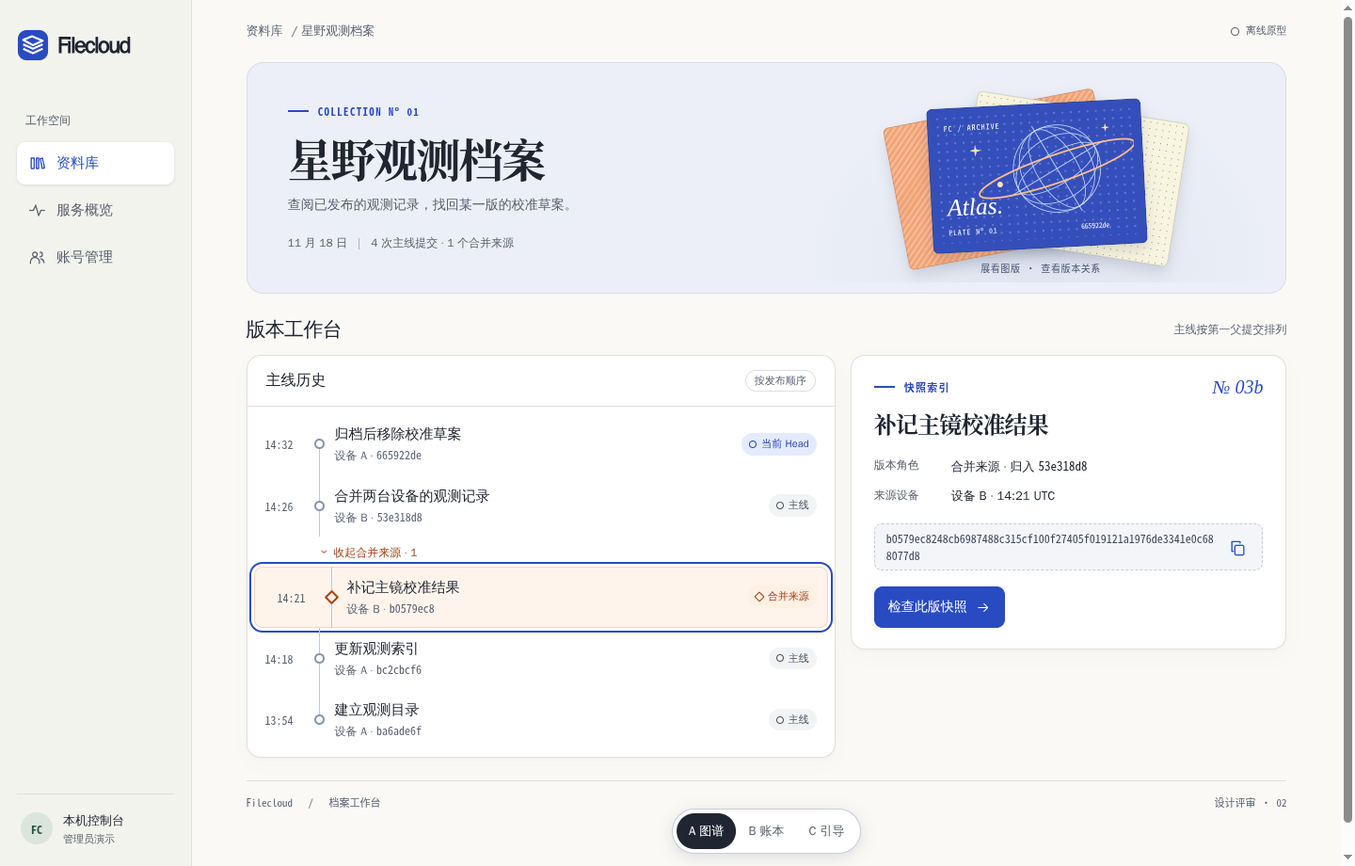
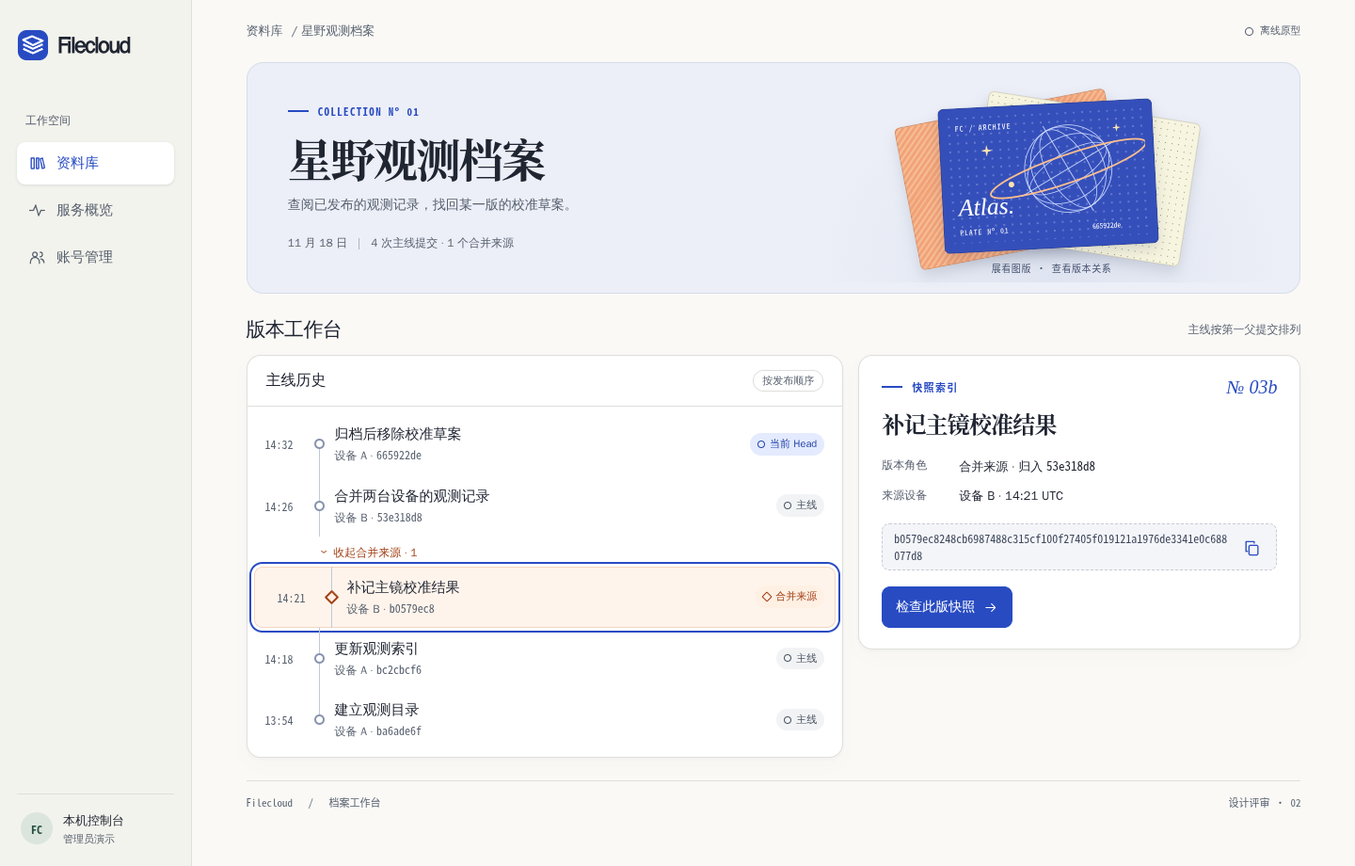
prototype: finalize the light atlas interaction (#58)

diff --git a/docs/design/web-console-prototype/index.html b/docs/design/web-console-prototype/index.html
@@ -6,21 +6,20 @@
 <title>Filecloud · 星野观测档案</title>
 <style>
 :root{color-scheme:light;--paper:#faf9f6;--white:#fff;--ink:#202532;--quiet:#58616f;--line:#dedfdc;--blue:#284bc2;--wash:#edf1ff;--orange:#a34217;--peach:#fff0e4;--green:#176446;--mint:#e8f5eb;--sans:system-ui,"Noto Sans CJK SC","Microsoft YaHei",sans-serif;--serif:"Noto Serif CJK SC","Songti SC","Source Han Serif SC",serif;--mono:ui-monospace,"SFMono-Regular",Consolas,monospace;--ease:cubic-bezier(.2,.8,.25,1);--spring:cubic-bezier(.2,.78,.32,1.12);--radius:15px;--shadow:0 2px 3px #20253206,0 7px 20px #20253205}
-*{box-sizing:border-box}html{scroll-padding:18px 0 90px}body{margin:0;background:var(--paper);color:var(--ink);font:15px/1.6 var(--sans)}button,select{color:inherit;font:inherit;cursor:pointer}button,a,select{touch-action:manipulation}button,select,.button{min-height:44px;border:1px solid #bbc1ca;background:var(--white);border-radius:9px;padding:8px 14px}button:active,.button:active{transform:translateY(1px)}:is(a,button,select):focus-visible,[tabindex="-1"]:focus-visible{outline:2px solid var(--blue);outline-offset:3px}a{color:inherit;text-decoration:none}p,h1,h2,h3,figure,dl,dd,pre{margin:0}h1,h2,h3{line-height:1.3;text-wrap:balance}h1{font:650 clamp(32px,3.3vw,51px)/1.22 var(--serif);letter-spacing:-.045em}h2{font-size:21px;letter-spacing:-.035em}p,.meta,dt,small{color:var(--quiet)}.mono,code,time,.kicker,.folio{font-family:var(--mono);font-variant-numeric:tabular-nums}code,.long,strong{overflow-wrap:anywhere}.kicker,.folio{font-size:11px;line-height:1.5;letter-spacing:.12em;font-weight:650}.kicker{color:var(--blue)}.ic{width:19px;height:19px;flex:none;vertical-align:middle;fill:none;stroke:currentColor;stroke-width:1.65;stroke-linecap:round;stroke-linejoin:round}.defs{width:0;height:0;position:absolute;overflow:hidden}.skip{position:fixed;top:-90px;left:12px;z-index:6;padding:10px 16px;background:var(--white);color:var(--blue)}.skip:focus{top:8px}
+*{box-sizing:border-box}html{scroll-padding:18px 0}body{margin:0;background:var(--paper);color:var(--ink);font:15px/1.6 var(--sans)}button,select{color:inherit;font:inherit;cursor:pointer}button,a,select{touch-action:manipulation}button,select,.button{min-height:44px;border:1px solid #bbc1ca;background:var(--white);border-radius:9px;padding:8px 14px}button:active,.button:active{transform:translateY(1px)}:is(a,button,select):focus-visible,[tabindex="-1"]:focus-visible{outline:2px solid var(--blue);outline-offset:3px}a{color:inherit;text-decoration:none}p,h1,h2,h3,figure,dl,dd,pre{margin:0}h1,h2,h3{line-height:1.3;text-wrap:balance}h1{font:650 clamp(32px,3.3vw,51px)/1.22 var(--serif);letter-spacing:-.045em}h2{font-size:21px;letter-spacing:-.035em}p,.meta,dt,small{color:var(--quiet)}.mono,code,time,.kicker,.folio{font-family:var(--mono);font-variant-numeric:tabular-nums}code,.long,strong{overflow-wrap:anywhere}.kicker,.folio{font-size:11px;line-height:1.5;letter-spacing:.12em;font-weight:650}.kicker{color:var(--blue)}.ic{width:19px;height:19px;flex:none;vertical-align:middle;fill:none;stroke:currentColor;stroke-width:1.65;stroke-linecap:round;stroke-linejoin:round}.defs{width:0;height:0;position:absolute;overflow:hidden}.skip{position:fixed;top:-90px;left:12px;z-index:6;padding:10px 16px;background:var(--white);color:var(--blue)}.skip:focus{top:8px}
 body{display:grid;grid-template-columns:204px minmax(0,1fr);min-height:100vh}.rail{position:sticky;top:0;height:100vh;display:flex;flex-direction:column;padding:29px 18px 19px;border-right:1px solid var(--line);background:#f3f3ed}.brand{display:inline-flex;align-items:center;gap:9px;font-size:24px;font-weight:750;letter-spacing:-.07em}.mark{width:34px;height:34px}.rail-label{margin:52px 9px 12px;font-size:12px;font-weight:650;color:var(--quiet)}nav{display:grid;gap:5px}nav a{display:flex;align-items:center;gap:11px;min-height:45px;padding:9px 12px;color:var(--quiet);border-radius:9px}nav a[aria-current]{background:var(--white);box-shadow:0 1px 3px #102b4520;color:var(--blue);font-weight:650}nav a:hover{color:var(--blue)}.rail-note{margin-top:auto;display:flex;align-items:center;gap:11px;border-top:1px solid var(--line);padding:15px 4px 0}.avatar{display:grid;place-items:center;flex:none;width:34px;height:34px;border-radius:50%;background:#dbe5dd;color:#275244;font:600 12px var(--mono)}.rail-note small{display:block;font-size:11px}.rail-note b{font-size:13px;font-weight:600}
-.workspace{min-width:0;width:min(1250px,100%);margin-inline:auto;padding:0 clamp(18px,4vw,64px) 90px}.crumb{min-height:66px;display:flex;align-items:center;gap:9px;font-size:13px;color:var(--quiet)}.crumb a:hover{text-decoration:underline}.crumb small{margin-left:auto;display:inline-flex;align-items:center;gap:7px;white-space:nowrap}.crumb small:before{content:'';width:7px;height:7px;border:1.5px solid var(--quiet);border-radius:50%}
+.workspace{min-width:0;width:min(1250px,100%);margin-inline:auto;padding:0 clamp(18px,4vw,64px) 28px}.crumb{min-height:66px;display:flex;align-items:center;gap:9px;font-size:13px;color:var(--quiet)}.crumb a:hover{text-decoration:underline}.crumb small{margin-left:auto;display:inline-flex;align-items:center;gap:7px;white-space:nowrap}.crumb small:before{content:'';width:7px;height:7px;border:1.5px solid var(--quiet);border-radius:50%}
 .hero{display:grid;grid-template-columns:1.12fr 1fr;align-items:center;isolation:isolate;position:relative;background:#eceff7;border:1px solid #d6dce8;border-radius:18px;overflow:hidden}.hero-copy{padding:clamp(23px,3vw,44px);z-index:1}.eyeline{display:flex;align-items:center;gap:10px}.eyeline:before{content:'';width:22px;height:2px;background:currentColor}.hero h1{margin:12px 0 10px}.hero p{font-size:14px}.hero-meta{margin-top:20px;display:flex;flex-wrap:wrap;align-items:center;gap:12px;color:var(--quiet);font-size:12px}.hero-meta i{height:12px;border-left:1px solid #adb5c4}.plate-stage{height:222px;position:relative;display:grid;place-items:center;background:radial-gradient(ellipse at 50% 90%,#c5cfe35c,transparent 67%)}.plates{border:0;padding:0;background:none;position:relative;width:228px;height:154px;isolation:isolate;--spread:0}.plates:hover,.plates:focus-visible,.plates[aria-pressed=true]{--spread:1}.plate{display:block;position:absolute;inset:0;overflow:hidden;border:1px solid #0002;border-radius:6px;box-shadow:0 7px 14px #171e3a21;transform-origin:50% 100%;transition:transform 360ms var(--spring)}.back{background:repeating-linear-gradient(135deg,#f1a277 0 3px,#f7bd96 3px 5px);transform:translateX(calc(-27px - var(--spread)*17px)) rotate(calc(-11deg - var(--spread)*6deg))}.middle{background-color:#f7f5df;background-image:radial-gradient(#89927b 1px,transparent 1px);background-size:7px 7px;transform:translateX(calc(22px + var(--spread)*17px)) rotate(calc(9deg + var(--spread)*5deg))}.front{color:#f4f5ff;background:#354fba;transform:translateY(calc(-2px - var(--spread)*5px)) rotate(-3deg);text-align:left}.front svg{width:100%;height:100%;display:block}.plate-caption{position:absolute;bottom:8px;font:10px var(--mono);letter-spacing:.06em;color:#485472}.plates:active{transform:none}
 .section-bar,.card-head,.actions,.cap,.barline{display:flex;align-items:center;gap:12px}.section-bar{margin:25px 0 12px;justify-content:space-between}.section-bar small{font-size:12px}.pair{display:grid;grid-template-columns:minmax(0,1.35fr) minmax(262px,1fr);align-items:start;gap:16px}.panel{min-width:0;background:var(--white);border:1px solid var(--line);border-radius:var(--radius);box-shadow:var(--shadow)}.pad,.heading{padding:clamp(18px,2.2vw,30px)}.card-head{justify-content:space-between;padding:15px 20px;border-bottom:1px solid var(--line)}.card-head h2,.card-head h3{font-size:16px}.count,.tag{display:inline-flex;align-items:center;gap:5px;font-size:11px;font-weight:630;border-radius:20px;white-space:nowrap}.count{color:var(--quiet);border:1px solid var(--line);padding:2px 9px}.tag{color:#485261;background:#f2f3f5;padding:3px 8px}.tag.head{color:#2545a8;background:#e4ebff}.tag.source{color:var(--orange);background:var(--peach)}.tag:before{content:'';width:6px;height:6px;border:1.5px solid currentColor;border-radius:50%}.tag.source:before{border-radius:1px;transform:rotate(45deg)}
 .versions{padding:7px}.revision{width:100%;display:grid;grid-template-columns:42px 14px minmax(0,1fr) auto;align-items:center;gap:9px;position:relative;text-align:left;border:1px solid transparent;background:transparent;padding:9px 11px;min-height:56px;border-radius:9px}.revision time{font-size:12px;color:var(--quiet)}.revision .node{position:relative;align-self:stretch;display:grid;place-items:center}.node:before{content:'';position:absolute;inset:-10px auto;width:1px;background:#c1c8db}.revision:first-child .node:before{top:50%}.revision:last-child .node:before{bottom:50%}.node:after{content:'';position:relative;width:7px;height:7px;border-radius:50%;background:white;border:2px solid #8994ae}.revision[aria-pressed=true]{background:var(--wash);border-color:#c9d5ff}.revision[aria-pressed=true] .node:after{border-color:var(--blue);background:var(--blue)}.revision:hover:not([aria-pressed=true]),.jump:hover{background:#f7f8fb}.revision b{font-size:15px;font-weight:620}.meta{display:block;font-size:12px}.revision.src{padding-left:24px;animation:unfold 220ms var(--ease)}.src .node:after,.src[aria-pressed=true] .node:after{border-color:var(--orange);background:var(--peach);border-radius:1px;transform:rotate(45deg)}.revision.src[aria-pressed=true]{background:#fff4eb;border-color:#f2d6c1}.disclose{border:0;background:transparent;color:var(--orange);min-height:32px;font-size:12px;margin-left:65px;padding:4px 8px}.disclose:before{content:'›';display:inline-block;margin-right:7px;font-size:15px;transition:transform 180ms var(--ease)}.disclose[aria-expanded=true]:before{transform:rotate(90deg)}
 .inspector{position:relative;overflow:hidden;padding:22px 24px}.cap{justify-content:space-between}.inspector h2{margin:10px 0 4px;font:650 24px/1.38 var(--serif)}.stamp{color:var(--blue);font:italic 20px Georgia,serif}.fields{margin:14px 0}.fields>div{display:grid;grid-template-columns:72px minmax(0,1fr);gap:10px;padding:5px 0;font-size:13px}.fields dt{font-size:12px}.id-slip{display:flex;align-items:center;gap:6px;justify-content:space-between;background:#f4f5f8;border:1px dashed #c7cbd5;border-radius:8px;padding:6px 8px 6px 12px}.id-slip code{color:#3c475c;min-width:0;font-size:12px;line-height:1.5}.copy-icon{flex:none;padding:5px;border:0;background:transparent;color:var(--blue);min-width:36px;min-height:36px}.actions{flex-wrap:wrap;margin-top:17px}.button{display:inline-flex;align-items:center;justify-content:center;gap:9px;font-weight:620;font-size:14px}.button .ic{width:16px}.primary{background:var(--blue);border-color:var(--blue);color:white}.primary:hover{background:#1d3895}.button[data-copied],.copy-icon[data-copied]{background:var(--mint);border-color:#a0c9b0;color:var(--green)}[data-copied] .ic{animation:check-in 200ms var(--spring)}
-.heading{border-top:2px solid var(--ink);padding-inline:0}.heading h1{margin:8px 0}.heading p{max-width:66ch}.jump{display:flex;align-items:center;gap:16px;padding:17px 21px;border-bottom:1px solid var(--line)}.jump:first-child{border-radius:var(--radius) var(--radius) 0 0}.jump:last-child{border-bottom:0;border-radius:0 0 var(--radius) var(--radius)}.jump strong,.jump small{display:block}.jump small{font-size:12px}.jump>.ic:last-child{margin-left:auto;color:var(--blue)}.tile,.symbol{display:inline-grid;place-items:center;flex:none;width:38px;height:38px;border-radius:11px;color:var(--blue);background:var(--wash)}.symbol{width:50px;height:50px;margin-bottom:14px}.pad h2{margin:6px 0}.note{margin:14px 0;color:var(--quiet);font-size:13px}.grid2{display:grid;grid-template-columns:1fr 1fr;gap:14px}.probe{border-top:3px solid #96bcad}.probe.warn{border-color:#d28758}.probe.unknown{border-color:#9da6b2}.probe .big{font:620 30px var(--serif);margin-top:8px}.probe .kicker{color:var(--quiet)}.status{background:var(--mint);color:var(--green);border-radius:9px;padding:12px 16px;margin:14px 0}.status.warn{background:var(--peach);color:var(--orange)}.status.unknown{background:#edf0f3;color:#485261}.toolbar{display:flex;align-items:center;justify-content:space-between;flex-wrap:wrap;gap:10px;margin:12px 0}.toolbar .disclose{margin-left:0}.choice{display:grid;gap:8px;margin:13px 0 20px}.choice select{min-width:0;width:100%}.ledger{width:100%;border-collapse:collapse;text-align:left;font-size:14px}.ledger th,.ledger td{padding:7px 12px;border-bottom:1px solid var(--line)}.ledger th{color:var(--quiet);font-size:12px}.ledger td>button{background:none;text-align:left;border:0;padding:6px}.ledger .chosen{background:var(--wash)}.steps{padding:0;list-style:none;counter-reset:step;display:grid;gap:12px}.steps li{position:relative;padding-left:36px;color:var(--quiet);counter-increment:step}.steps li:before{content:counter(step,decimal-leading-zero);position:absolute;left:0;top:2px;font:600 12px var(--mono);color:var(--blue)}.cmd{white-space:pre-wrap;overflow-wrap:anywhere;font:13px/1.65 var(--mono);padding:15px;background:var(--wash);border-radius:9px;color:#21377c}.rule-note{background:#f4f1e9}.spaced{margin-top:16px}.review-dock{position:fixed;z-index:2;bottom:max(13px,env(safe-area-inset-bottom));left:calc(50% + 102px);transform:translateX(-50%);background:#fff;border:1px solid #c6cbd5;border-radius:30px;box-shadow:0 4px 16px #202c4521;padding:4px;display:grid;grid-template-columns:repeat(3,1fr);isolation:isolate}.review-dock[hidden]{display:none}.review-dock:before{content:'';position:absolute;z-index:-1;top:4px;bottom:4px;left:4px;width:calc((100% - 8px)/3);border-radius:22px;background:var(--ink);transform:translateX(calc(var(--idx,0)*100%));transition:transform 230ms var(--spring)}.review-dock button{background:none;border:0;font-size:13px;min-height:38px;border-radius:22px;padding:5px 13px;color:var(--quiet);white-space:nowrap}.review-dock button[aria-pressed=true]{color:#fff}.foot{display:flex;justify-content:space-between;gap:8px;flex-wrap:wrap;padding-top:14px;margin-top:24px;border-top:1px solid var(--line);font:11px var(--mono);color:var(--quiet)}.toast{position:fixed;right:16px;bottom:66px;padding:8px 13px;border-radius:7px;background:var(--ink);color:white;z-index:3;font-size:13px}.toast:empty{display:none}dialog{width:420px;max-width:calc(100% - 28px);border:1px solid var(--line);border-radius:18px;padding:26px;color:var(--ink);box-shadow:0 15px 80px #161d4133}dialog[open]{animation:unfold 180ms var(--ease)}dialog::backdrop{background:#1e28364f}dialog h2{margin:12px 0}.warn-tile{color:var(--orange);background:var(--peach)}.dangerbtn{background:#943e1d;border-color:#943e1d;color:white}.sr{position:absolute;width:1px;height:1px;overflow:hidden;clip-path:inset(50%)}
+.heading{border-top:2px solid var(--ink);padding-inline:0}.heading h1{margin:8px 0}.heading p{max-width:66ch}.jump{display:flex;align-items:center;gap:16px;padding:17px 21px;border-bottom:1px solid var(--line)}.jump:first-child{border-radius:var(--radius) var(--radius) 0 0}.jump:last-child{border-bottom:0;border-radius:0 0 var(--radius) var(--radius)}.jump strong,.jump small{display:block}.jump small{font-size:12px}.jump>.ic:last-child{margin-left:auto;color:var(--blue)}.tile,.symbol{display:inline-grid;place-items:center;flex:none;width:38px;height:38px;border-radius:11px;color:var(--blue);background:var(--wash)}.symbol{width:50px;height:50px;margin-bottom:14px}.pad h2{margin:6px 0}.note{margin:14px 0;color:var(--quiet);font-size:13px}.grid2{display:grid;grid-template-columns:1fr 1fr;gap:14px}.probe{border-top:3px solid #96bcad}.probe.warn{border-color:#d28758}.probe.unknown{border-color:#9da6b2}.probe .big{font:620 30px var(--serif);margin-top:8px}.probe .kicker{color:var(--quiet)}.status{background:var(--mint);color:var(--green);border-radius:9px;padding:12px 16px;margin:14px 0}.status.warn{background:var(--peach);color:var(--orange)}.status.unknown{background:#edf0f3;color:#485261}.toolbar{display:flex;align-items:center;justify-content:space-between;flex-wrap:wrap;gap:10px;margin:12px 0}.steps{padding:0;list-style:none;counter-reset:step;display:grid;gap:12px}.steps li{position:relative;padding-left:36px;color:var(--quiet);counter-increment:step}.steps li:before{content:counter(step,decimal-leading-zero);position:absolute;left:0;top:2px;font:600 12px var(--mono);color:var(--blue)}.cmd{white-space:pre-wrap;overflow-wrap:anywhere;font:13px/1.65 var(--mono);padding:15px;background:var(--wash);border-radius:9px;color:#21377c}.rule-note{background:#f4f1e9}.spaced{margin-top:16px}.foot{display:flex;justify-content:space-between;gap:8px;flex-wrap:wrap;padding-top:14px;margin-top:24px;border-top:1px solid var(--line);font:11px var(--mono);color:var(--quiet)}.toast{position:fixed;right:16px;bottom:66px;padding:8px 13px;border-radius:7px;background:var(--ink);color:white;z-index:3;font-size:13px}.toast:empty{display:none}dialog{width:420px;max-width:calc(100% - 28px);border:1px solid var(--line);border-radius:18px;padding:26px;color:var(--ink);box-shadow:0 15px 80px #161d4133}dialog[open]{animation:unfold 180ms var(--ease)}dialog::backdrop{background:#1e28364f}dialog h2{margin:12px 0}.warn-tile{color:var(--orange);background:var(--peach)}.dangerbtn{background:#943e1d;border-color:#943e1d;color:white}.sr{position:absolute;width:1px;height:1px;overflow:hidden;clip-path:inset(50%)}
 .map-face{position:absolute;inset:0;background:#f9f7ec;opacity:0;transition:opacity 190ms var(--ease)}.plates[aria-pressed=true] .map-face{opacity:1}.plates[aria-pressed=true] .front{transform:translateY(-4px) rotate(0)}
 @keyframes unfold{from{opacity:.25;transform:translateY(-4px)}to{opacity:1;transform:none}}@keyframes check-in{from{opacity:0;transform:scale(.7)}to{opacity:1;transform:none}}
-@media(max-width:1060px){body{grid-template-columns:165px minmax(0,1fr)}.rail{padding-inline:12px}.workspace{padding-inline:24px}.review-dock{left:calc(50% + 82.5px)}.pair{grid-template-columns:minmax(0,1.2fr) minmax(240px,1fr)}.plate-stage{transform:scale(.87)}.revision{gap:5px;padding-inline:7px}.revision b{font-size:14px}}
-@media(max-width:820px){body{display:block}.rail{position:static;height:auto;display:flex;flex-direction:row;align-items:center;justify-content:space-between;gap:12px;border:0;border-bottom:1px solid var(--line);padding:10px 20px}.rail-label,.rail-note{display:none}nav{display:flex;gap:3px}nav a{min-height:44px;padding:7px 10px;font-size:13px}.review-dock{left:50%}.workspace{padding-inline:20px}.plate-stage{height:198px}.crumb{min-height:52px}}
-@media(max-width:650px){.workspace{padding-inline:14px}.rail{flex-wrap:wrap;padding:10px 14px 4px}.brand{font-size:22px}.mark{width:28px;height:28px}nav{width:100%;justify-content:space-between}nav a{gap:5px}.crumb{font-size:12px;gap:5px}.crumb small{font-size:10px}.hero{grid-template-columns:1fr}.hero-copy{padding:20px 20px 0}.hero p{font-size:13px}.hero-meta{margin-top:10px}.plate-stage{height:147px;transform:none}.plates{width:163px;height:107px}.plate-caption{bottom:4px;font-size:9px}.pair{grid-template-columns:1fr}.section-bar{margin-top:18px}.section-bar h2{font-size:19px}.section-bar small{font-size:11px}.revision{grid-template-columns:36px 12px minmax(0,1fr) auto;gap:5px}.revision.src{padding-left:12px}.revision .meta{font-size:11px}.inspector{padding:18px}.card-head{padding:13px 15px}.disclose,.copy-icon,.review-dock button{min-height:44px}.disclose{margin-left:47px}.grid2{gap:8px}.pad{padding:16px}.probe .big{font-size:24px}.heading{padding:17px 0}.ledger td,.ledger th{padding:5px}.ledger th:nth-child(2),.ledger td:nth-child(2){display:none}.jump{padding:14px 12px;gap:9px}.toast{max-width:90vw}.hero .kicker{font-size:10px}.steps li{padding-left:29px}}
+@media(max-width:1060px){body{grid-template-columns:165px minmax(0,1fr)}.rail{padding-inline:12px}.workspace{padding-inline:24px}.pair{grid-template-columns:minmax(0,1.2fr) minmax(240px,1fr)}.plate-stage{transform:scale(.87)}.revision{gap:5px;padding-inline:7px}.revision b{font-size:14px}}
+@media(max-width:820px){body{display:block}.rail{position:static;height:auto;display:flex;flex-direction:row;align-items:center;justify-content:space-between;gap:12px;border:0;border-bottom:1px solid var(--line);padding:10px 20px}.rail-label,.rail-note{display:none}nav{display:flex;gap:3px}nav a{min-height:44px;padding:7px 10px;font-size:13px}.workspace{padding-inline:20px}.plate-stage{height:198px}.crumb{min-height:52px}}
+@media(max-width:650px){.workspace{padding-inline:14px}.rail{flex-wrap:wrap;padding:10px 14px 4px}.brand{font-size:22px}.mark{width:28px;height:28px}nav{width:100%;justify-content:space-between}nav a{gap:5px}.crumb{font-size:12px;gap:5px}.crumb small{font-size:10px}.hero{grid-template-columns:1fr}.hero-copy{padding:20px 20px 0}.hero p{font-size:13px}.hero-meta{margin-top:10px}.plate-stage{height:147px;transform:none}.plates{width:163px;height:107px}.plate-caption{bottom:4px;font-size:9px}.pair{grid-template-columns:1fr}.section-bar{margin-top:18px}.section-bar h2{font-size:19px}.section-bar small{font-size:11px}.revision{grid-template-columns:36px 12px minmax(0,1fr) auto;gap:5px}.revision.src{padding-left:12px}.revision .meta{font-size:11px}.inspector{padding:18px}.card-head{padding:13px 15px}.disclose,.copy-icon{min-height:44px}.disclose{margin-left:47px}.grid2{gap:8px}.pad{padding:16px}.probe .big{font-size:24px}.heading{padding:17px 0}.jump{padding:14px 12px;gap:9px}.toast{max-width:90vw}.hero .kicker{font-size:10px}.steps li{padding-left:29px}}
 .skip:not(:focus){clip-path:inset(50%);pointer-events:none}
-@media(max-width:650px){.section-bar{display:grid;grid-template-columns:1fr auto;gap:9px}.review-dock{position:relative;grid-column:1/-1;justify-self:start;bottom:auto;left:auto;transform:none;box-shadow:none}.workspace{padding-bottom:28px}}
 @media(max-width:390px){nav a{white-space:nowrap;padding-inline:7px}nav .ic{display:none}.hero-meta{gap:7px;font-size:11px}.section-bar small{letter-spacing:-.02em}}
 @media(prefers-reduced-motion:reduce){*,*::before,*::after{animation:none!important;transition:none!important;scroll-behavior:auto!important}}
 </style></head>
@@ -31,7 +30,6 @@ body{display:grid;grid-template-columns:204px minmax(0,1fr);min-height:100vh}.ra
 <a class="skip" href="#content" id="skip">跳到主要内容</a>
 <aside class="rail"><a class="brand" href="#libraries" aria-label="Filecloud 资料库"><svg class="mark" viewBox="0 0 36 36" aria-hidden="true"><rect x="1" y="1" width="34" height="34" rx="10" fill="#284bc2"/><g fill="none" stroke="#fff" stroke-width="2.3" stroke-linejoin="round"><path d="m7 12 10-4 12 5-11 5zM7 17l11 5 11-5M7 22l11 5 11-5"/></g></svg>Filecloud</a><div class="rail-label">工作空间</div><nav aria-label="主导航"></nav><div class="rail-note"><span class="avatar">FC</span><span><b>本机控制台</b><small>管理员演示</small></span></div></aside>
 <main class="workspace" id="content" tabindex="-1"></main>
-<div class="review-dock" id="switch" role="group" aria-label="评审：历史页版式" hidden><button data-layout="A" aria-label="版式 A 图谱">A 图谱</button><button data-layout="B" aria-label="版式 B 账本">B 账本</button><button data-layout="C" aria-label="版式 C 引导">C 引导</button></div>
 <div class="toast" id="toast" role="status"></div>
 <dialog aria-labelledby="dialogTitle" aria-describedby="impact"><span class="tile warn-tile"><svg class="ic" aria-hidden="true"><use href="#key"/></svg></span><h2 id="dialogTitle">重置观测员 02 的密码？</h2><p id="impact">目标账号 <code>observer-02</code> 在所有设备上的 Web 和 CLI 会话都会失效，需要重新登录。</p><p class="note">这是模拟操作，不会修改账号。</p><div class="actions"><button id="cancel" autofocus>取消</button><button id="confirm" class="dangerbtn">确认模拟重置</button></div></dialog>
 <script>
@@ -41,13 +39,11 @@ const commits={
[3 lines of base64/hex data omitted]
-const mainline=['head','merge','remote','initial'], layouts=['A','B','C'];
+const mainline=['head','merge','remote','initial'];
 const folder='观测报告',fileName='冬季巡天联合观测项目第二轮复核记录与主镜偏差校准草案.md',path=folder+'/'+fileName;
[1 lines of base64/hex data omitted]
 const $=s=>document.querySelector(s), icon=id=>`<svg class="ic" aria-hidden="true"><use href="#${id}"/></svg>`, hasDraft=k=>k==='source'||k==='merge';
-let layout=new URL(location.href).searchParams.get('variant');if(!layouts.includes(layout))layout='A';
 let selected='head',expanded=false,fan=false,health='ready',resetDone=false,noticeTimer;
-const layoutDock=$('#switch');
 $('nav').innerHTML=[['libraries','library','资料库'],['overview','pulse','服务概览'],['accounts','users','账号管理']].map(([p,i,t])=>`<a href="#${p}">${icon(i)}${t}</a>`).join('');
 function crumb(label,up='资料库',to='libraries'){return `<div class="crumb"><a href="#${to}">${up}</a> / ${label}<small>离线原型</small></div>`}
 function heading(k,title,text){return `<header class="heading"><div class="kicker eyeline">${k}</div><h1 tabindex="-1">${title}</h1><p>${text}</p></header>`}
@@ -62,11 +58,7 @@ function disclosure(){return `<button class="disclose" data-expand aria-expanded
 function rows(){return expanded?['head','merge','source','remote','initial']:mainline}
 function historyList(){return `<section class="panel"><div class="card-head"><h3>主线历史</h3><span class="count">按发布顺序</span></div><div class="versions">${rows().map(k=>{const [id,title,t,device]=commits[k];return `<button class="revision ${k==='source'?'src':''}" data-choose="${k}" aria-pressed="${selected===k}"><time>${t}</time><i class="node" aria-hidden="true"></i><span><b>${title}</b><small class="meta">${device} · <code>${id.slice(0,8)}</code></small></span>${tag(k)}</button>${k==='merge'?disclosure():''}`}).join('')}</div></section>`}
 function inspector(k){const [id,title,t,device,role]=commits[k];return `<article class="panel inspector" id="inspect"><div class="cap"><span class="kicker eyeline">快照索引</span><span class="stamp" aria-hidden="true">№ ${k==='source'?'03b':String(4-mainline.indexOf(k)).padStart(2,'0')}</span></div><h2 tabindex="-1">${title}</h2><dl class="fields"><div><dt>版本角色</dt><dd>${role}${k==='source'?' · 归入 <code>53e318d8</code>':''}</dd></div><div><dt>来源设备</dt><dd>${device} · ${t} UTC</dd></div></dl><div class="id-slip"><code>${id}</code><button class="copy-icon" data-copy="commit" aria-label="复制完整提交 ID" title="复制完整提交 ID">${icon('copy')}</button></div><div class="actions">${link('tree/'+k,'检查此版快照',true)}</div></article>`}
-function historyView(){let view;
- if(layout==='A')view=`<div class="pair">${historyList()}${inspector(selected)}</div>`;
- if(layout==='B')view=`<section class="panel pad"><div class="toolbar"><h3>提交账本</h3>${disclosure()}</div><table class="ledger"><thead><tr><th>版本</th><th>设备</th><th>角色</th></tr></thead><tbody>${rows().map(k=>`<tr class="${selected===k?'chosen':''}"><td><button data-choose="${k}" aria-pressed="${selected===k}">${commits[k][1]}<span class="meta mono">${commits[k][0].slice(0,8)}</span></button></td><td>${commits[k][3]}</td><td>${tag(k)}</td></tr>${selected===k?`<tr><td colspan="3">${inspector(k)}</td></tr>`:''}`).join('')}</tbody></table></section>`;
- if(layout==='C')view=`<section class="panel pad"><div class="kicker">01 / 选择来源</div><label class="choice">要查阅哪个已发布版本？<select id="pick">${Object.entries(commits).map(([k,c])=>`<option value="${k}" ${k===selected?'selected':''}>${c[4]} · ${c[1]}</option>`).join('')}</select></label><div class="kicker">02 / 核对快照</div>${inspector(selected)}</section>`;
- return hero()+`<div class="section-bar"><h2>版本工作台</h2><small>主线按第一父提交排列</small></div>`+view}
+function historyView(){return hero()+`<div class="section-bar"><h2>版本工作台</h2><small>主线按第一父提交排列</small></div><div class="pair">${historyList()}${inspector(selected)}</div>`}
 function libraries(){return crumb('资料库索引','工作区','overview')+heading('COLLECTIONS','我的资料库','从自己的资料库进入版本历史。')+`<section class="panel"><div class="card-head"><h3>馆藏目录</h3><span class="count">2 个资料库</span></div>${jump('history','星野观测档案','4 次主线提交 · Head 665922de')}${jump('empty','下一季观测','空资料库 · 等待首次发布')}</section>`}
 function empty(){return crumb('下一季观测')+heading('COLLECTION Nº 02','下一季观测','资料库已创建，尚无已发布版本。')+`<section class="panel pad"><span class="symbol">${icon('folder')}</span><h2>从第一台设备开始</h2><p>在设备上用 CLI 绑定工作目录。导入已有文件时，显式选择首次导入。第一次发布后，这里就会出现版本历史。</p><div class="actions">${link('libraries','返回资料库')}</div></section>`}
 function snapshot(page,k){const c=commits[k],base=crumb('快照 '+c[0].slice(0,8),'版本历史','history');
@@ -81,20 +73,17 @@ function accounts(){return crumb('账号管理','管理员','overview')+heading(
 function render(focus=false){const [route,arg]=location.hash.slice(1).split('/');let page=route||'history',html;
  switch(page){case 'history':html=historyView();break;case 'overview':html=overview();break;case 'accounts':html=accounts();break;case 'empty':html=empty();break;case 'tree':case 'folder':case 'file':case 'handoff':selected=Object.hasOwn(commits,arg)?arg:'head';if(selected==='source')expanded=true;if(['file','handoff'].includes(page)&&!hasDraft(selected))page='folder';html=snapshot(page,selected);break;default:html=libraries()}
  const section=['overview','accounts'].includes(page)?page:'libraries';document.querySelectorAll('nav a').forEach(a=>{if(a.hash==='#'+section)a.setAttribute('aria-current','page');else a.removeAttribute('aria-current')});
- $('#content').innerHTML=html+'<footer class="foot"><span>Filecloud &nbsp; / &nbsp; 档案工作台</span><span>设计评审 · 02</span></footer>';if(page==='history')$('.section-bar').append(layoutDock);else document.body.append(layoutDock);layoutDock.hidden=page!=='history';layoutDock.style.setProperty('--idx',layouts.indexOf(layout));document.querySelectorAll('[data-layout]').forEach(b=>b.setAttribute('aria-pressed',String(b.dataset.layout===layout)));document.title=$('h1').textContent+' · Filecloud';if(focus){$('#toast').textContent='';window.scrollTo(0,0);$('h1').focus({preventScroll:true})}}
-function switchLayout(next){layout=next;const url=new URL(location.href);url.searchParams.set('variant',layout);history.replaceState(null,'',url);render();$(`[data-layout="${layout}"]`).focus({preventScroll:true})}
+ $('#content').innerHTML=html+'<footer class="foot"><span>Filecloud &nbsp; / &nbsp; 档案工作台</span><span>设计评审 · 02</span></footer>';document.title=$('h1').textContent+' · Filecloud';if(focus){$('#toast').textContent='';window.scrollTo(0,0);$('h1').focus({preventScroll:true})}}
 function notify(text){$('#toast').textContent=text;clearTimeout(noticeTimer);noticeTimer=setTimeout(()=>$('#toast').textContent='',2200)}
 async function copy(button){const command=button.dataset.copy==='command',node=command?$('#command'):button.previousElementSibling;
  try{await navigator.clipboard.writeText(node.textContent)}catch{const range=document.createRange();range.selectNodeContents(node);const selection=window.getSelection();selection.removeAllRanges();selection.addRange(range);notify('文字已选中，请手动复制');return}
  if(button.hasAttribute('data-copied'))return;const html=button.innerHTML;button.setAttribute('data-copied','');button.innerHTML=icon('check')+(command?'已复制':'<span class="sr">已复制</span>');notify(command?'已复制预览命令':'已复制完整提交 ID');setTimeout(()=>{button.removeAttribute('data-copied');button.innerHTML=html},1800)}
 document.addEventListener('click',e=>{const b=e.target.closest('button');if(!b)return;
- if(b.dataset.layout)switchLayout(b.dataset.layout);
- else if(b.dataset.choose){selected=b.dataset.choose;render();if(matchMedia('(max-width:650px)').matches)$('#inspect h2').focus();else $(`[data-choose="${selected}"]`).focus()}
+ if(b.dataset.choose){selected=b.dataset.choose;render();if(matchMedia('(max-width:650px)').matches)$('#inspect h2').focus();else $(`[data-choose="${selected}"]`).focus()}
  else if(b.hasAttribute('data-expand')){expanded=!expanded;if(!expanded&&selected==='source')selected='merge';render();$('[data-expand]').focus()}
  else if(b.dataset.copy)copy(b);
  else if(b.id==='plates'){fan=!fan;b.setAttribute('aria-pressed',String(fan));$('.plate-caption').textContent=plateCaption()}
  else if(b.id==='prepare')$('dialog').showModal();else if(b.id==='cancel')$('dialog').close();else if(b.id==='confirm'){$('dialog').close();resetDone=true;render();$('#result').focus()}});
-document.addEventListener('change',e=>{if(e.target.id==='health'){health=e.target.value;render();$('#health').focus()}else if(e.target.id==='pick'){selected=e.target.value;expanded=selected==='source';render();$('#pick').focus()}});
-$('#switch').addEventListener('keydown',e=>{if(['ArrowLeft','ArrowRight'].includes(e.key)){e.preventDefault();switchLayout(layouts[(layouts.indexOf(layout)+(e.key==='ArrowRight'?1:2))%3])}});
+document.addEventListener('change',e=>{if(e.target.id==='health'){health=e.target.value;render();$('#health').focus()}});
 $('#skip').onclick=e=>{e.preventDefault();$('#content').focus()};window.addEventListener('hashchange',()=>render(true));render();
 </script></body></html>

diff --git a/docs/design/web-console-prototype/README.md b/docs/design/web-console-prototype/README.md
@@ -1,17 +1,16 @@
-# 星野观测档案 · 亮色原型 02
+# 星野观测档案 · 亮色 A「图谱」定稿
 
-打开同目录的 **[index.html](index.html)** 即可体验；在 GitHub 上请点 **Download raw file**，下载后双击。不需要启动服务、联网或输入密码。所有提交、账号和操作都是示例。本轮只重做 [#58](https://github.com/finalmaybe/filecloud/issues/58) 的交互与视觉，未接入服务端。
+打开同目录的 **[index.html](index.html)** 即可体验；在 GitHub 上请点 **Download raw file**，下载后双击。不需要启动服务、联网或输入密码。所有提交、账号和操作都是示例。[#58](https://github.com/finalmaybe/filecloud/issues/58) 已选定 A「图谱」为后续实现基线；此文件仍是离线原型。
 
 ![亮色历史页：左侧主线与橙色合并来源，右侧快照索引](screens/desktop-history.webp)
 
-## 先试这三个组件
+## 图谱中的交互
 
 参考来源：[DesignBookmark · Motion](https://designbookmark.com/motion)。下面列的是该页面的组件名，原型用本地 CSS、SVG 和浏览器原生按钮重新实现，不加载站外脚本、图片或字体。
 
 | 参考组件 | 在哪儿试 | 交互与用途 |
 |---|---|---|
 | **Fan cards** | 点击页首蓝色星图，或聚焦后按 Enter | 叠放的图版展开，从封面切到提交关系图：实线圆点是四次主线发布，虚线菱形是 14:21 的来源，在 14:26 合入。再点一次收回。[展开截图](screens/desktop-map.webp) |
-| **Tab pill** | 切换「A 图谱 / B 账本 / C 引导」 | 选中底板滑到对应标签，三种版式共用当前所选提交。桌面开关浮在底部，窄屏放在工作台标题下，不遮挡命令。焦点位于开关内时支持左右键。 |
 | **Copy button** | 点击完整提交 ID 旁的复制图标，或恢复页的「复制预览命令」 | 剪贴板写入成功后，原按钮就地变成勾号，并播报结果；浏览器不允许访问剪贴板时选中文字，提示手动复制。 |
 
 ## 两分钟走查
@@ -23,18 +22,14 @@
 
 ## 版式与视觉约定
 
-| 版式 | 适合什么任务 |
-|---|---|
-| **A · 图谱（推荐）** | 来回对比相邻版本。选择在左，详情在右，合并来源收在所属提交下。手机先选版本，再聚焦下方的快照标题。 |
-| B · 账本 | 按列扫描设备和版本角色，详情在选中行下方展开。 |
-| C · 引导 | 偶尔做恢复：第一步选版本，第二步核对快照。 |
+历史页只使用 **A · 图谱**。桌面左侧选择主线提交或其合并来源，右侧固定位置显示对应快照详情，方便对比相邻版本。窄屏按「历史列表 → 快照详情」排列，选中版本后焦点移到下方详情标题。
 
 - **纸与墨**：纸白画布 `#FAF9F6`、正文 `#202532`、群青主操作 `#284BC2`、橙墨合并来源 `#A34217`。中文标题用本机衬线字，正文用无衬线，哈希和时间用等宽字体。正文/画布 14.54:1，白色主按钮文字/群青 7.30:1，橙墨文字/浅杏底 5.62:1。
-- **节奏与反馈**：历史行至少 56 px，面板间隔 16 px，键盘焦点环 2 px。图版展开 360 ms、选中底板移动 230 ms、复制勾号出现 200 ms。系统要求减少动画时直接显示最终状态。危险操作仍用有文字说明的确认框，无需长按、滑动或计时。
+- **节奏与反馈**：历史行至少 56 px，面板间隔 16 px，键盘焦点环 2 px。图版展开 360 ms、复制勾号出现 200 ms。系统要求减少动画时直接显示最终状态。危险操作仍用有文字说明的确认框，无需长按、滑动或计时。
 
 ## 浏览器走查记录
 
-桌面 **1440×920** 与窄屏 **320×740** 均用 Chromium 直接打开本地 HTML：走通上述两条任务，检查 A/B/C 切换和刷新、图版展开、复制反馈、空库、存储异常与断连、长路径、弹窗取消/确认与焦点返回。关键页面无整页横向溢出或脚本错误；减少动画模式下图版过渡为 `0s`。
+桌面 **1440×920** 与窄屏 **320×740** 均用 Chromium 直接打开本地 HTML：走通上述两条任务，检查旧版式链接与刷新均显示图谱、图版展开、复制反馈、空库、存储异常与断连、长路径、弹窗取消/确认与焦点返回。关键页面无整页横向溢出或脚本错误；减少动画模式下图版过渡为 `0s`。
 
 | 场景 | 实测截图 |
 |---|---|
@@ -43,4 +38,4 @@
 | 空库与异常 | [空库](screens/desktop-empty.webp) · [存储未就绪](screens/desktop-unready.webp) · [连接中断](screens/desktop-offline.webp) |
 | 账号重置确认 | [桌面](screens/desktop-reset.webp) · [窄屏](screens/mobile-reset.webp) |
 
-当前评审的是亮色方向和上述交互；生产界面仍等待维护者确认。旧版保存在评审分支的提交 `3df9721` 中。
+评审留档：[三方案对比稿](https://github.com/finalmaybe/filecloud/tree/08e2fa7/docs/design/web-console-prototype)；该版本仅供回溯。

diff --git a/docs/design/web-console.md b/docs/design/web-console.md
@@ -46,4 +46,4 @@ Web 与 `/v1` 不互相代收凭据：Web 不用客户端 Bearer 授予管理权
 
 ## 交付门禁
 
-阶段 1 的原型是离线示例，不能作为权限或协议回归的证据。维护者确认原型后才开始 `/web/` 实现；正式验证包括 WCAG 2.2 AA、窄屏与键盘、固定样本性能、真实 CLI↔Web 闭环，以及[发布门禁](../distribution.md)。所有后续任务和依赖见 [#56](https://github.com/finalmaybe/filecloud/issues/56)。
+维护者已在 [#58](https://github.com/finalmaybe/filecloud/issues/58) 选定亮色 A「图谱」：桌面左侧选主线提交或合并来源，右侧查看快照详情；窄屏选中后聚焦列表下方的详情。生产界面不提供评审用的版式切换器。原型使用离线示例，权限与协议兼容性须用真实服务验证；正式验证包括 WCAG 2.2 AA、窄屏与键盘、固定样本性能、真实 CLI↔Web 闭环，以及[发布门禁](../distribution.md)。所有后续任务和依赖见 [#56](https://github.com/finalmaybe/filecloud/issues/56)。
